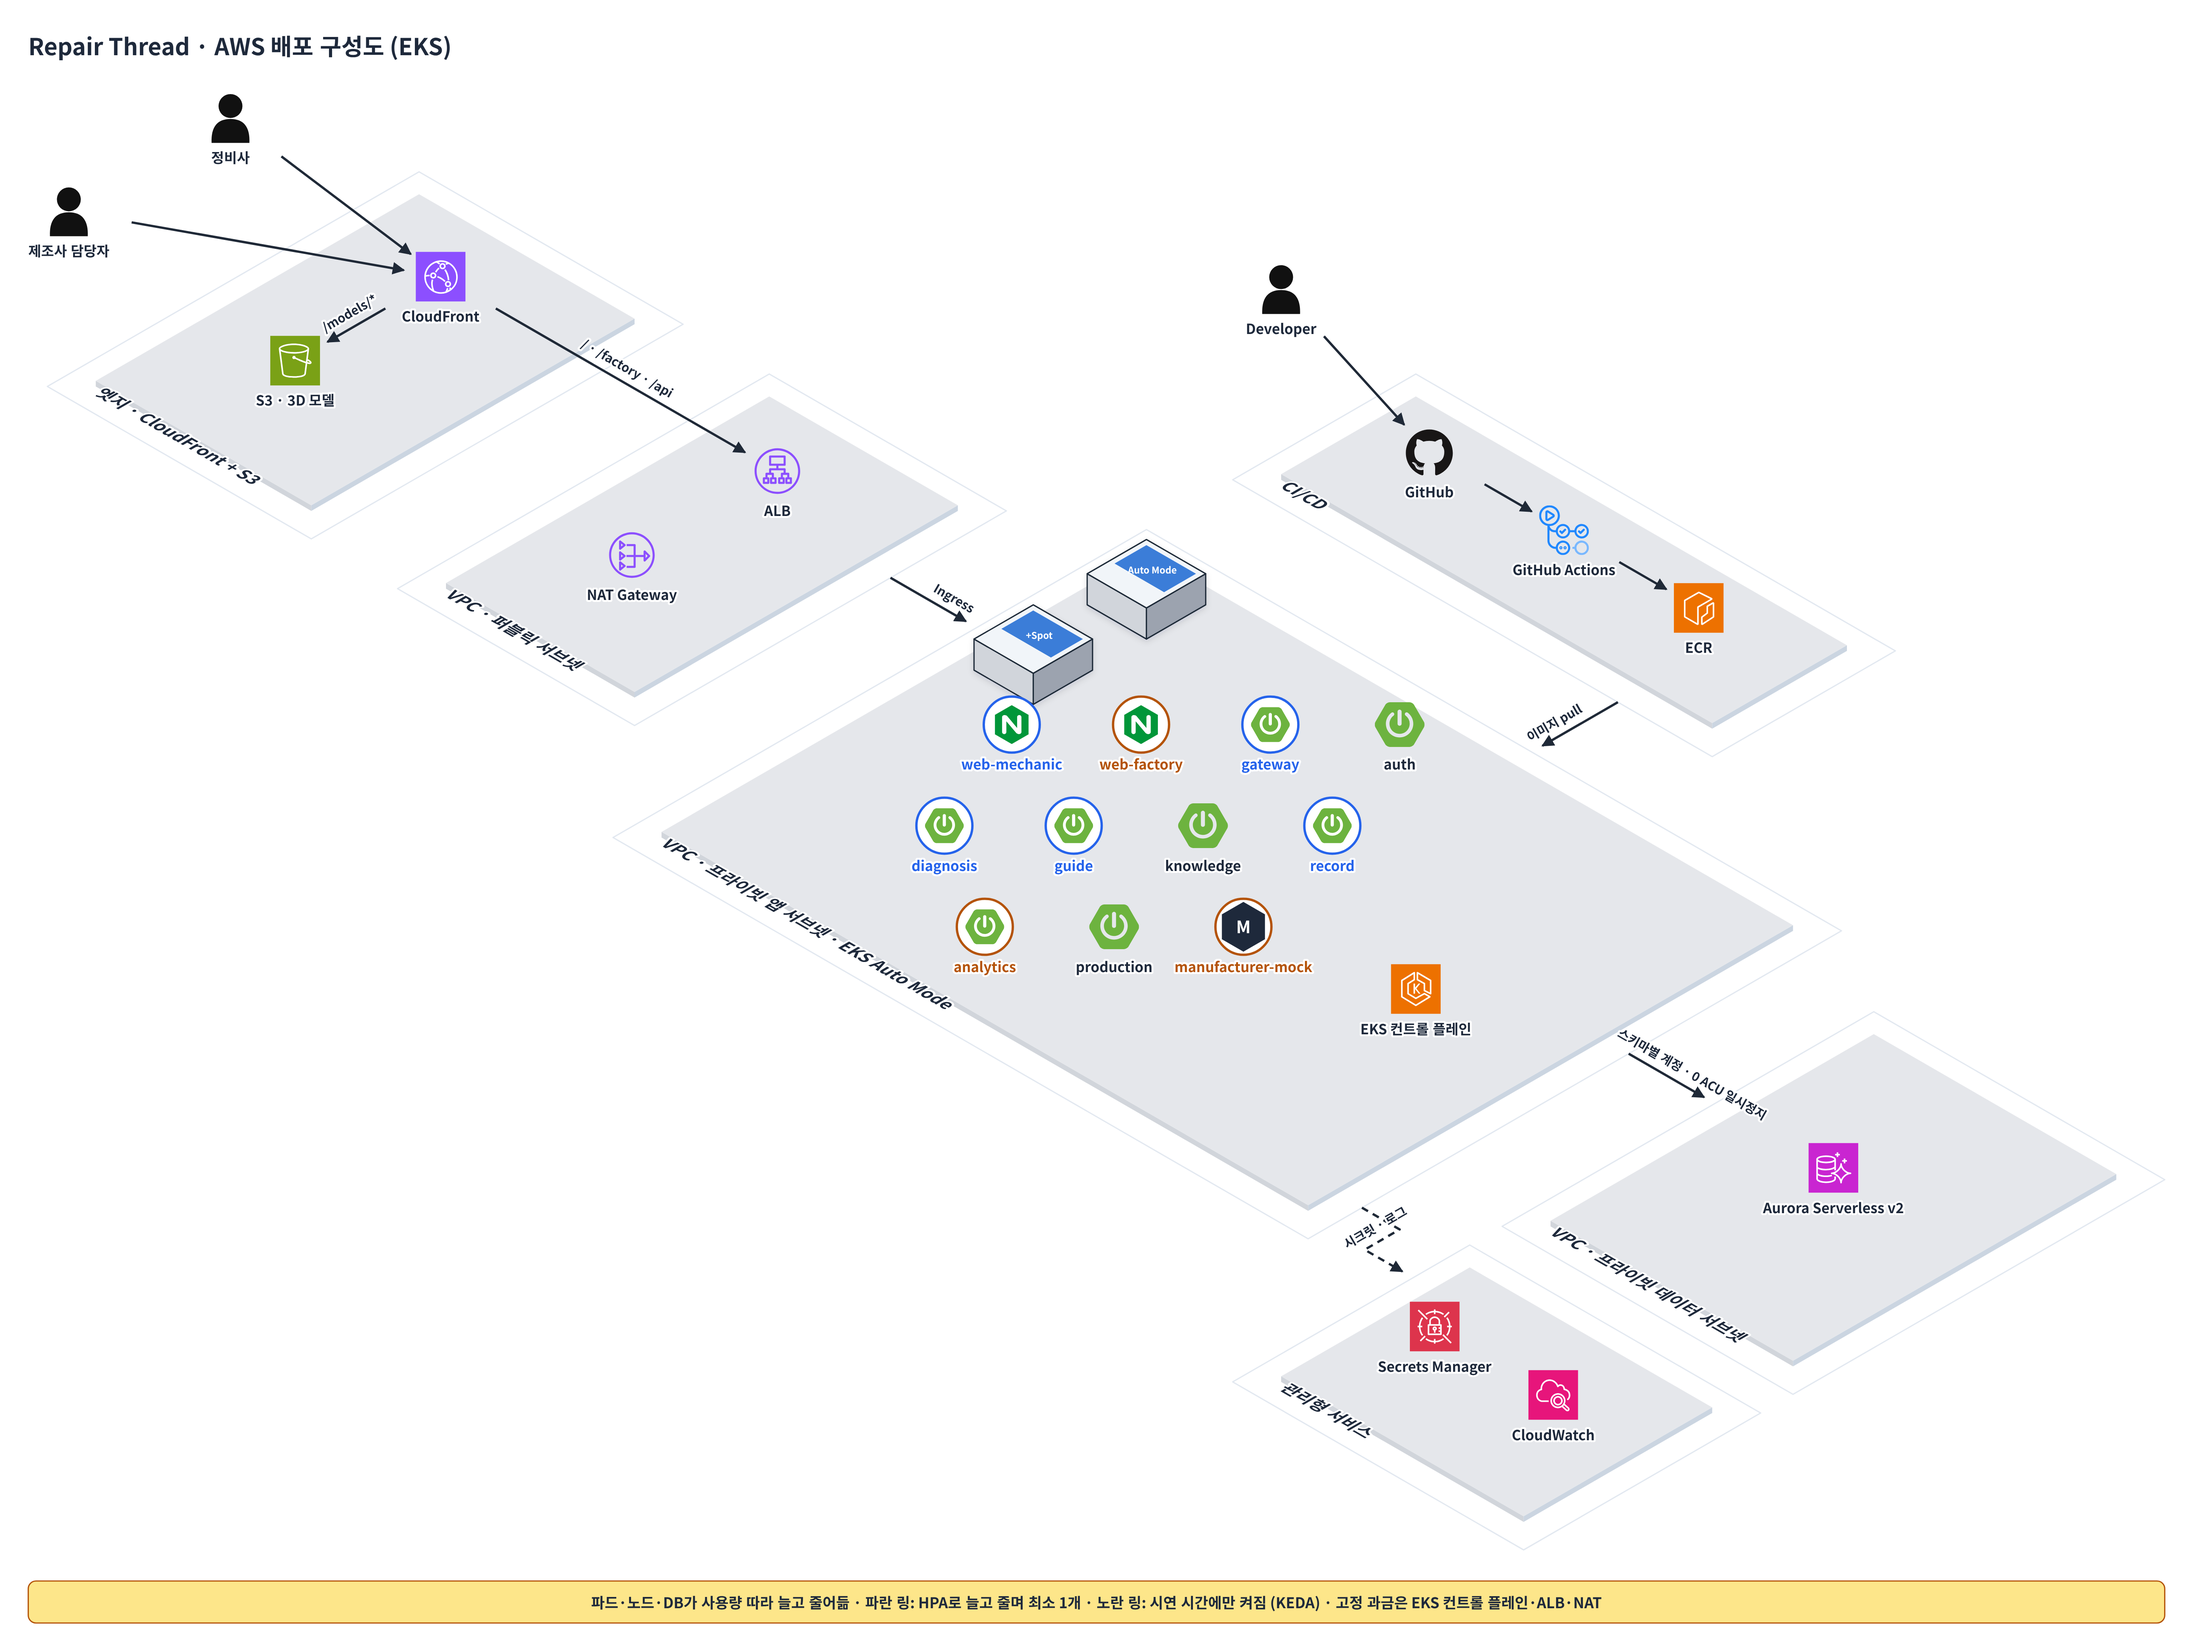
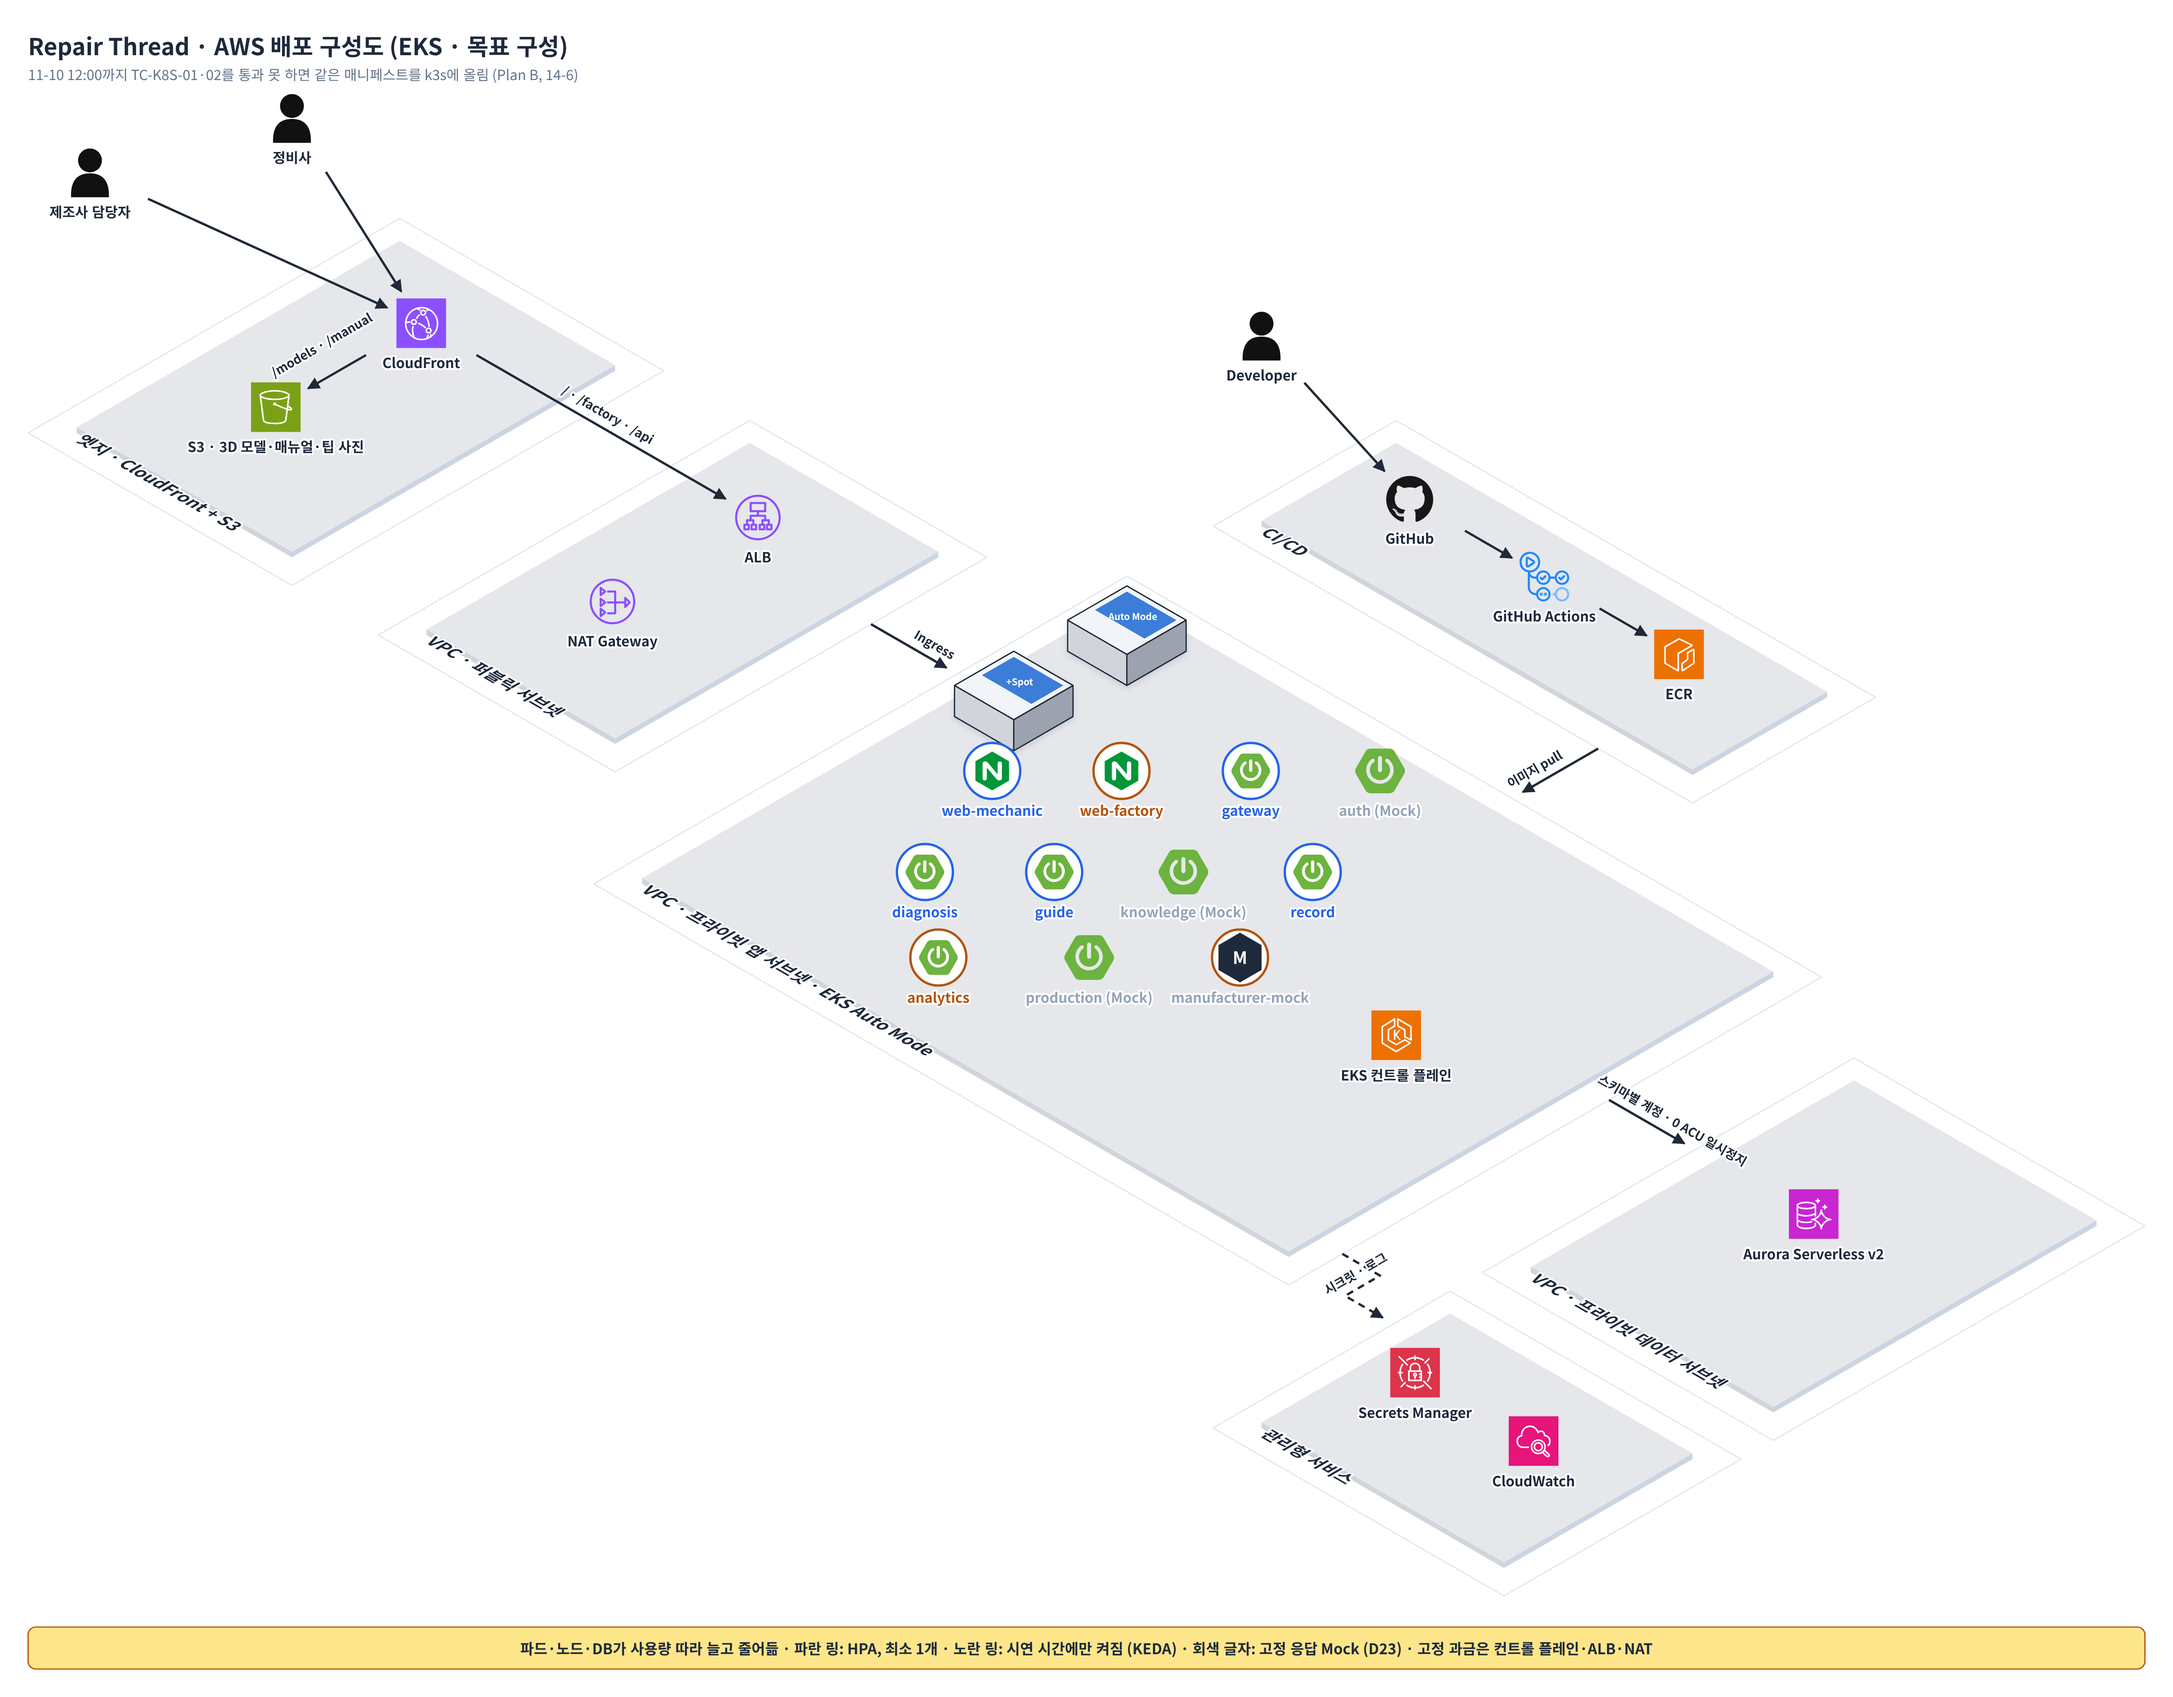
docs: AWS·EKS 구성도에 Mock 파드와 S3 경로 반영 (D23·D24)
- auth·knowledge·production·manufacturer-mock 4개는 회색 글자 Mock, 캡션 범례
- S3를 3D 모델·매뉴얼 그림·팁 사진으로, CloudFront 경로에 /manual 추가
- 제목을 "목표 구성"으로, 부제에 k3s Plan B 시간 게이트
- README·기획서 14-7·deployment-eks.md 문구 맞춤

Closes #15

Claude-Session: https://claude.ai/code/session_014R51HkAxQNUEAujjDtMXPZ

diff --git a/docs/planning.md b/docs/planning.md
@@ -1217,9 +1217,9 @@ repair-thread/
 
 ### 14-7. 배포 구성도
 
-사용자 요청은 CloudFront를 지나 3D 모델은 S3로, 나머지는 ALB와 Ingress를 거쳐 EKS Auto Mode 노드의 파드로 감. 파드는 프라이빗 서브넷에서 Aurora Serverless v2 스키마에 붙고, 이미지는 GitHub Actions가 ECR에 올린 것을 받음.
+사용자 요청은 CloudFront를 지나 3D 모델·매뉴얼 그림(`/models`, `/manual`)은 S3로, 나머지는 ALB와 Ingress를 거쳐 EKS Auto Mode 노드의 파드로 감. 파드는 프라이빗 서브넷에서 Aurora Serverless v2 스키마에 붙고, 이미지는 GitHub Actions가 ECR에 올린 것을 받음.
 
-![AWS 배포 구성도: CloudFront·S3 엣지, 퍼블릭 서브넷의 ALB·NAT, EKS Auto Mode 파드 11개, Aurora Serverless v2, CI/CD, 관리형 서비스](images/aws-eks.png)
+![AWS 배포 구성도 (목표 구성): CloudFront·S3 엣지, 퍼블릭 서브넷의 ALB·NAT, EKS Auto Mode 파드 11개(회색 글자 4개는 Mock), Aurora Serverless v2, CI/CD, 관리형 서비스](images/aws-eks.png)
 
 ## 15. 발표 구성 (12분 + Q&A 8분)
 

diff --git a/docs/deployment-eks.md b/docs/deployment-eks.md
@@ -178,6 +178,6 @@ repair-thread/
 
 ## 14-7. 배포 구성도
 
-사용자 요청은 CloudFront를 지나 3D 모델은 S3로, 나머지는 ALB와 Ingress를 거쳐 EKS Auto Mode 노드의 파드로 감. 파드는 프라이빗 서브넷에서 Aurora Serverless v2 스키마에 붙고, 이미지는 GitHub Actions가 ECR에 올린 것을 받음.
+사용자 요청은 CloudFront를 지나 3D 모델·매뉴얼 그림(`/models`, `/manual`)은 S3로, 나머지는 ALB와 Ingress를 거쳐 EKS Auto Mode 노드의 파드로 감. 파드는 프라이빗 서브넷에서 Aurora Serverless v2 스키마에 붙고, 이미지는 GitHub Actions가 ECR에 올린 것을 받음.
 
-![AWS 배포 구성도: CloudFront·S3 엣지, 퍼블릭 서브넷의 ALB·NAT, EKS Auto Mode 파드 11개, Aurora Serverless v2, CI/CD, 관리형 서비스](images/aws-eks.png)
+![AWS 배포 구성도 (목표 구성): CloudFront·S3 엣지, 퍼블릭 서브넷의 ALB·NAT, EKS Auto Mode 파드 11개(회색 글자 4개는 Mock), Aurora Serverless v2, CI/CD, 관리형 서비스](images/aws-eks.png)

diff --git a/README.md b/README.md
@@ -197,8 +197,9 @@ flowchart TB
 
 ### 배포 (AWS · EKS)
 
-![AWS 배포 구성도: CloudFront·S3, ALB·NAT, EKS Auto Mode 파드 11개, Aurora Serverless v2, CI/CD, 관리형 서비스](docs/images/aws-eks.png)
+![AWS 배포 구성도 (목표 구성): CloudFront·S3, ALB·NAT, EKS Auto Mode 파드 11개(회색 글자 4개는 Mock), Aurora Serverless v2, CI/CD, 관리형 서비스](docs/images/aws-eks.png)
 
+- 목표 구성. 지금 시연은 위 [현재 시연 구성](#4-구현-현황-실제-구현--mock--설계만)처럼 브라우저 안에서 돎
 - Deployment 11개를 EKS Auto Mode 클러스터 하나에서 관리, 동시 접속이 적다는 전제로 파드(HPA·KEDA cron)·노드(Spot)·DB(Aurora Serverless v2)가 사용량 따라 늘고 줆
 - EKS 컨트롤 플레인·ALB·NAT는 사용량과 상관없이 과금돼서 시연 후 `terraform destroy`
 - 시간 게이트: 11-10 12:00까지 TC-K8S-01·02를 통과 못 하면 같은 매니페스트를 k3s에 올림
